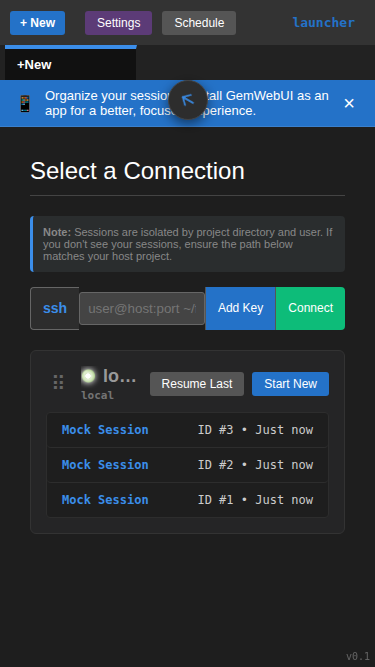
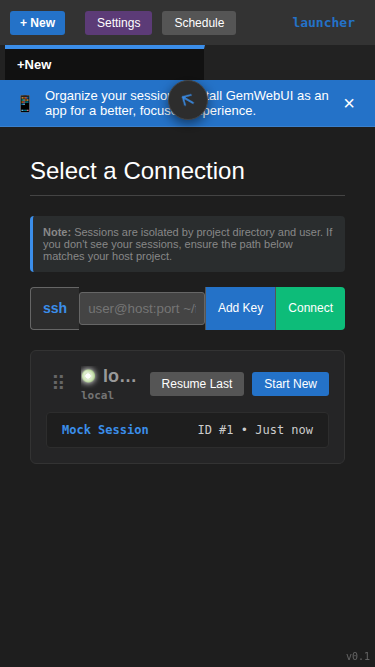
fix(mobile): restore and refactor pull-to-refresh to modular class
- Restored pull-to-refresh functionality on mobile.
- Refactored logic into a new modular class `PullToRefresh` in `pull-to-refresh.js`.
- Registered the module in `src/static/js/mobile/index.js`.
- Restored E2E test verifying pull-to-refresh behavior.
- Updated QA images from test runs.

diff --git a/src/static/js/mobile/pull-to-refresh.js b/src/static/js/mobile/pull-to-refresh.js
@@ -1,0 +1,122 @@
+export class PullToRefresh {
+  constructor(zones, indicatorId) {
+    this.zones = zones;
+    this.indicatorId = indicatorId;
+    this.startX = 0;
+    this.startY = 0;
+    this.isPulling = false;
+    this.visualY = 0;
+    this.THRESHOLD = 60;
+    this.MAX_VISUAL_Y = 80;
+
+    this.init();
+  }
+
+  init() {
+    if (
+      typeof document === "undefined" ||
+      typeof document.addEventListener !== "function"
+    )
+      return;
+
+    if (document.readyState === "loading") {
+      document.addEventListener("DOMContentLoaded", () => this.setup());
+    } else {
+      this.setup();
+    }
+  }
+
+  setup() {
+    const indicator = document.getElementById(this.indicatorId);
+    if (!indicator) return;
+
+    this.zones.forEach((zoneId) => {
+      const zone = document.getElementById(zoneId);
+      if (!zone) return;
+
+      zone.addEventListener(
+        "touchstart",
+        (e) => {
+          if (
+            e.touches.length === 1 &&
+            document.documentElement.scrollTop === 0
+          ) {
+            this.startX = e.touches[0].clientX;
+            this.startY = e.touches[0].clientY;
+            this.isPulling = false; // Determine on touchmove
+            this.visualY = 0;
+          }
+        },
+        { passive: true },
+      );
+
+      zone.addEventListener(
+        "touchmove",
+        (e) => {
+          if (document.documentElement.scrollTop !== 0) return;
+
+          const y = e.touches[0].clientY;
+          const x = e.touches[0].clientX;
+          const dy = y - this.startY;
+          const dx = x - this.startX;
+
+          // Ignore horizontal swipes (tab scrolling) or upward scrolls
+          if (Math.abs(dx) > Math.abs(dy) || dy < 0) {
+            this.isPulling = false;
+            return;
+          }
+
+          if (dy > 0) {
+            this.isPulling = true;
+            // Prevent default only for the vertical pull so native pull to refresh isn't triggered simultaneously
+            if (e.cancelable) {
+              e.preventDefault();
+            }
+
+            // Exponential resistance
+            this.visualY = Math.min(dy * 0.4, this.MAX_VISUAL_Y);
+
+            indicator.classList.remove("is-resetting");
+            indicator.classList.add("is-pulling");
+
+            // Mid-pull state
+            if (this.visualY >= this.THRESHOLD) {
+              indicator.classList.add("is-ready");
+            } else {
+              indicator.classList.remove("is-ready");
+            }
+
+            indicator.style.transform = `translateY(${this.visualY}px)`;
+            indicator.style.opacity = Math.min(
+              this.visualY / this.THRESHOLD,
+              1,
+            );
+          }
+        },
+        { passive: false },
+      );
+
+      zone.addEventListener("touchend", () => {
+        if (!this.isPulling) return;
+        this.isPulling = false;
+
+        indicator.style.transform = "";
+        indicator.style.opacity = "";
+        indicator.classList.remove("is-pulling");
+
+        if (this.visualY >= this.THRESHOLD) {
+          indicator.classList.remove("is-ready");
+          indicator.classList.add("is-loading");
+
+          // Trigger refresh after a tiny delay for animation
+          setTimeout(() => {
+            globalThis.location.reload();
+          }, 300);
+        } else {
+          indicator.classList.remove("is-ready");
+          indicator.classList.add("is-resetting");
+        }
+      });
+    });
+  }
+}

diff --git a/src/static/js/mobile/index.js b/src/static/js/mobile/index.js
@@ -8,6 +8,7 @@ import {
   WordBoundaryRule,
 } from "./rules.js";
 import { MobileInputBuffer, MobileInputUI } from "./ui.js";
+import { PullToRefresh } from "./pull-to-refresh.js";
 
 export {
   MobileModifierState,
@@ -19,7 +20,11 @@ export {
   WordBoundaryRule,
   MobileInputBuffer,
   MobileInputUI,
+  PullToRefresh,
 };
+
+// Initialize the pull-to-refresh module
+new PullToRefresh(["toolbar", "tab-bar"], "ptr-indicator");
 
 export class MobileTerminalController {
   constructor(tab) {

diff --git a/tests/e2e/test_mobile_pull_to_refresh.py b/tests/e2e/test_mobile_pull_to_refresh.py
@@ -1,0 +1,103 @@
+import pytest
+from playwright.sync_api import Page, expect
+
+
[email redacted]
+def mobile_page(server, page: Page):
+    page.set_viewport_size({"width": 375, "height": 667})
+    # Emulate touch device
+    page.goto(server)
+    # Ensure it's fully loaded
+    page.wait_for_selector("#toolbar")
+    return page
+
+
+def test_mobile_pull_to_refresh_screenshots_and_behavior(mobile_page: Page):
+    page = mobile_page
+
+    page.locator("#toolbar")
+    indicator = page.locator("#ptr-indicator")
+
+    # Helper to simulate touch drag
+    def simulate_touch_drag(dx, dy, release=True):
+        page.evaluate(f"""
+            (async () => {{
+                const el = document.getElementById('toolbar');
+                const box = el.getBoundingClientRect();
+                const startX = box.x + box.width / 2;
+                const startY = box.y + box.height / 2;
+
+                const touchStart = new TouchEvent('touchstart', {{
+                    touches: [new Touch({{ identifier: 1, target: el, clientX: startX, clientY: startY }})]
+                }});
+                el.dispatchEvent(touchStart);
+
+                const touchMove = new TouchEvent('touchmove', {{
+                    touches: [new Touch({{ identifier: 1, target: el, clientX: startX + {dx}, clientY: startY + {dy} }})],
+                    cancelable: true
+                }});
+                el.dispatchEvent(touchMove);
+
+                if ({str(release).lower()}) {{
+                    const touchEnd = new TouchEvent('touchend', {{
+                        changedTouches: [new Touch({{ identifier: 1, target: el, clientX: startX + {dx}, clientY: startY + {dy} }})]
+                    }});
+                    el.dispatchEvent(touchEnd);
+                }}
+            }})()
+        """)
+
+    # Behavioral 1: Horizontal swipe does not trigger
+    simulate_touch_drag(dx=100, dy=0)
+    expect(indicator).not_to_have_class("ptr-indicator is-pulling", timeout=500)
+
+    # Behavioral 2: Tap does not trigger
+    simulate_touch_drag(dx=0, dy=0)
+    expect(indicator).not_to_have_class("ptr-indicator is-pulling", timeout=500)
+
+    # Behavioral 3: Releasing before threshold (60)
+    # Let's pull down 100 raw pixels -> visualY = 40 (< 60)
+    simulate_touch_drag(dx=0, dy=100, release=False)
+
+    # Mid-pull Screenshot
+    page.screenshot(path="docs/qa-images/ptr_mid_pull.png")
+    expect(indicator).to_have_class("ptr-indicator is-pulling")
+
+    # Release it
+    page.evaluate("""
+        const el = document.getElementById('toolbar');
+        const touchEnd = new TouchEvent('touchend', {
+            changedTouches: [new Touch({ identifier: 1, target: el, clientX: 0, clientY: 0 })]
+        });
+        el.dispatchEvent(touchEnd);
+    """)
+    # It should hide
+    expect(indicator).to_have_class("ptr-indicator is-resetting")
+
+    # Now pull past threshold
+    # 200 * 0.4 = 80 visualY (>= 60)
+    simulate_touch_drag(dx=0, dy=200, release=False)
+
+    # Ready State Screenshot
+    page.wait_for_timeout(100)  # give css a frame
+    page.screenshot(path="docs/qa-images/ptr_ready_state.png")
+    expect(indicator).to_have_class("ptr-indicator is-pulling is-ready")
+
+    # Release it
+    page.evaluate("""
+        const el = document.getElementById('toolbar');
+        const touchEnd = new TouchEvent('touchend', {
+            changedTouches: [new Touch({ identifier: 1, target: el, clientX: 0, clientY: 0 })]
+        });
+        el.dispatchEvent(touchEnd);
+    """)
+
+    # Loading State Screenshot
+    page.wait_for_timeout(50)  # immediately after
+    page.screenshot(path="docs/qa-images/ptr_loading_state.png")
+    expect(indicator).to_have_class("ptr-indicator is-loading")
+
+    # Since it reloads, wait for reload
+    page.wait_for_function(
+        "() => window.performance.navigation.type === 1", timeout=5000
+    )